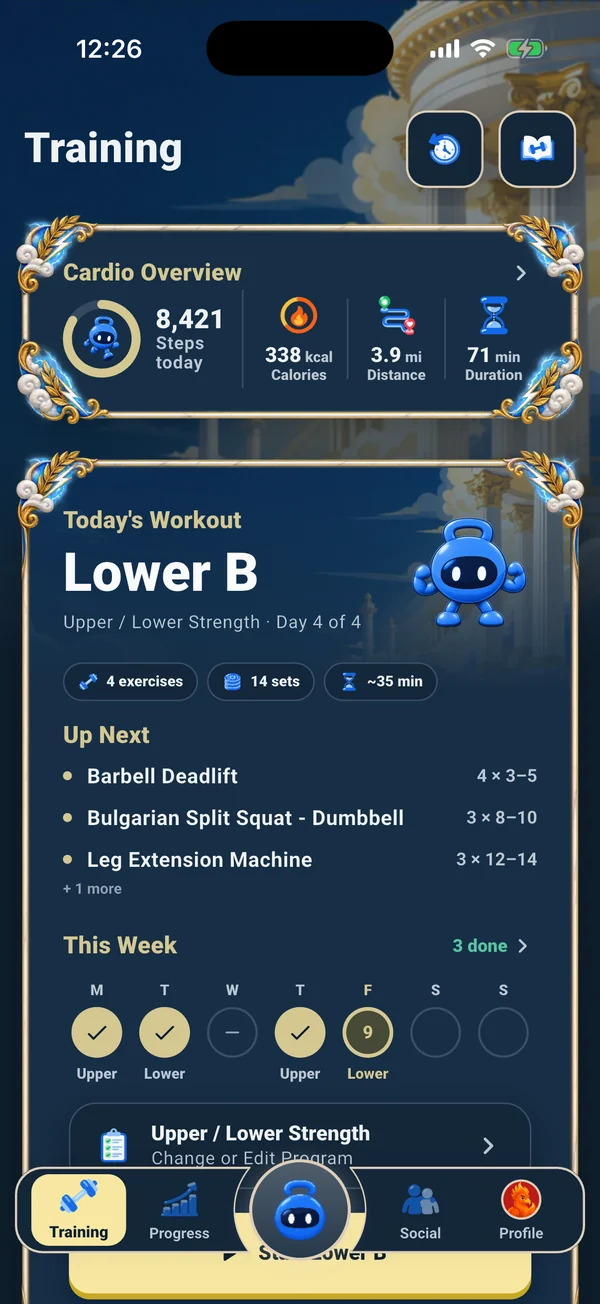
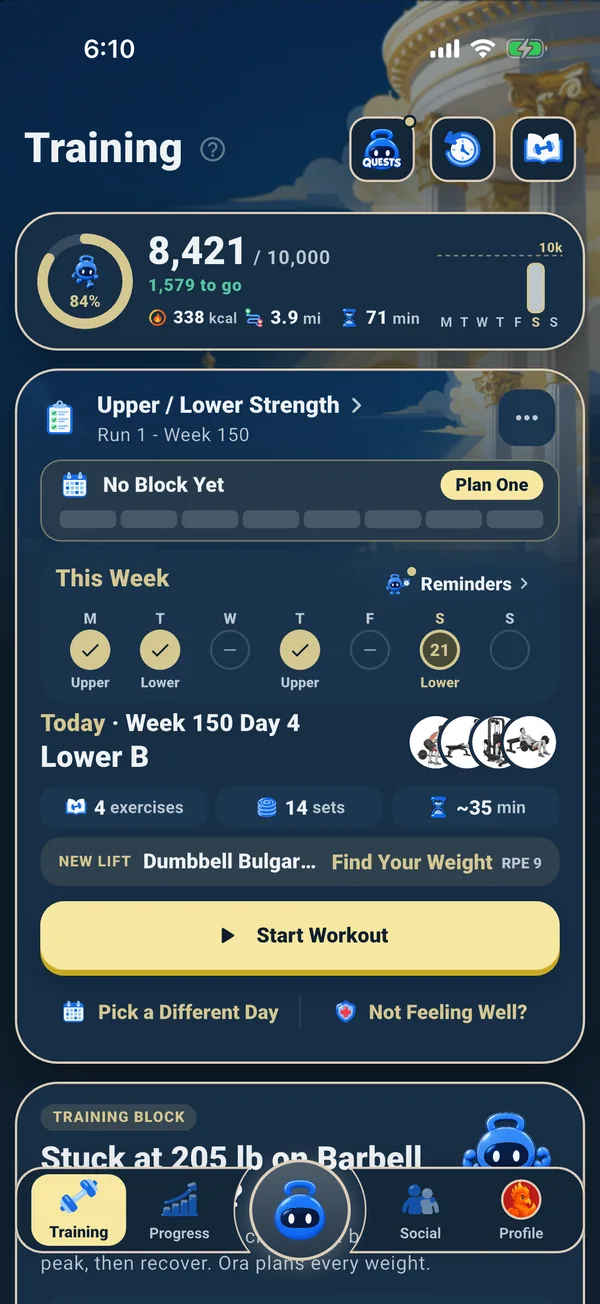
Homepage refresh: current app screens, Plans and Free Tools sections, more comparisons, grouped footer
- Six app screens replaced with today's app (marketing screenshot test,
  demo lifter); 'Beta screens' note removed
- New 'A plan for the whole block' section (block plan + Why This Set
  screens): Why This Set, Test Day, weekly check-ins, training styles
- New 'Free for every lifter' section: 5 calculators, Exercise Guides,
  Ora Wiki; top menu gains Plans and Free Tools
- Comparison table: 4 more rows; counts 1,800+ exercises, 47 badges;
  leagues, duels, Duo Streaks, Train Together and friend privacy in copy
- Footer links grouped into Ora / Free Tools / Learn / Company; footer
  compacted to fit one screen; consent block balanced (wording unchanged)
- Scroll: a push past the last section no longer glides back to its top

diff --git a/index.html b/index.html
@@ -477,11 +477,59 @@ main:focus{outline:none}
    --big is 1 up to laptop size and up to 1.8 on large monitors (set below). */
 .stage{scale:var(--big,1)}
 #social .board{scale:var(--big,1);transform-origin:50% 0}
+
+/* plan + free sections, grouped footer (2026-11-22) */
+.ticks{list-style:none;padding:0;margin:20px 0 0;display:grid;gap:10px}
+.ticks li{position:relative;padding:12px 14px 12px 44px;border-radius:14px;background:#ffffff0a;border:1px solid #ffffff14;color:var(--sub);font-size:15px;line-height:1.45}
+.ticks li b{color:#fff}
+.ticks li:before{content:'✓';position:absolute;left:14px;top:12px;width:20px;height:20px;border-radius:50%;background:#156CF6;color:#fff;font:700 12px/20px Roboto;text-align:center}
+.stage.plain .phone{animation:bob 6s ease-in-out infinite}
+#free{grid-template-columns:1fr}
+.copy.ctr{max-width:980px;margin:0 auto;text-align:center}
+.copy.ctr .lead{margin-left:auto;margin-right:auto;max-width:620px}
+.copy.ctr h2{margin-left:auto;margin-right:auto}
+.freegrid{display:grid;grid-template-columns:repeat(4,1fr);gap:12px;margin-top:28px;text-align:left}
+.freegrid a{display:flex;flex-direction:column;gap:4px;padding:16px;border-radius:18px;background:#ffffff0a;border:1px solid #ffffff1a;text-decoration:none;color:var(--ink);transition:border-color .2s,transform .2s}
+.freegrid a:hover{border-color:#3d8bff99;transform:translateY(-2px)}
+.freegrid .oi{width:34px;height:34px;margin-bottom:6px}
+.freegrid b{font:700 17px Fredoka;color:#fff}.freegrid span{font-size:13.5px;color:var(--sub);line-height:1.4}
+.freegrid a.all{justify-content:center;align-items:center;background:linear-gradient(180deg,#3D8BFF,#156CF6);border-color:#3D8BFF}
+.freegrid a.all b{font-size:16px}
+.links.cols{display:grid;grid-template-columns:repeat(4,auto);justify-content:center;gap:10px 56px;text-align:left;font-size:13.5px}
+.links.cols div{display:flex;flex-direction:column;gap:7px}
+.links.cols b{color:#fff;font-size:13px;letter-spacing:.3px;margin-bottom:2px}
+@media (max-width:900px){.freegrid{grid-template-columns:repeat(2,1fr)}.links.cols{grid-template-columns:repeat(2,auto);gap:22px 40px}}
+.slot.peek{position:absolute;aspect-ratio:1;z-index:2}
+.planpeek{width:max(150px,min(14vw,22vh));left:50%;bottom:4%;transform:translateX(-50%)}
+#free .copy.ctr{position:relative}
+.freeslot{width:max(110px,min(9vw,15vh));aspect-ratio:1;margin:0 auto 6px}
+@media (max-width:860px){.planpeek{left:auto;right:0;bottom:auto;top:-40px;width:var(--side)}.freeslot{width:min(34vw,120px)}}
+
+/* footer: stacked as before, a little more compact so Orbi clears the top bar (owner, 2026-11-22) */
+@media (min-width:861px){
+ footer{padding-top:96px;padding-bottom:24px}
+ footer .slot{width:max(130px,min(14vw,19vh));margin-bottom:-6px}
+ footer h2{margin-bottom:8px}
+ .faq{margin-top:18px}.faq details{padding:9px 4px}
+ .links.cols{margin-top:16px;gap:8px 56px}.links.cols div{gap:5px}
+}
+footer .wl{max-width:680px}footer .wl .wlrow{max-width:520px;margin-left:auto;margin-right:auto}
+footer .form-status{font-weight:600;color:#9DB2D3}
+footer .consent{max-width:640px;margin:2px auto 0;line-height:1.55;text-wrap:balance}
+@media (min-width:861px) and (max-height:840px){
+ footer{padding-top:84px;padding-bottom:10px}
+ footer .slot{width:max(100px,15vh);margin-bottom:-8px}
+ footer h2{font-size:clamp(34px,3.6vw,48px);margin-bottom:4px}
+ footer p.lead{font-size:16px;margin-bottom:12px}
+ footer .goals{margin-top:8px}footer .form-status{margin-top:4px}
+ .faq{margin-top:12px}.faq details{padding:7px 4px}
+ .links.cols{margin-top:12px;gap:6px 56px;font-size:13px}.links.cols div{gap:3px}
+}
 </style></head><body>
 <a class="skip" href="#main">Skip to content</a>
 <script>(function(){function f(){var b=innerWidth<=860?1:Math.max(1,Math.min(innerWidth/1500,innerHeight/940,1.8));document.documentElement.style.setProperty('--big',b.toFixed(3))}f();addEventListener('resize',f)})()</script>
 <div class="bg" aria-hidden="true"><i class="b1"></i><i class="b2"></i><i class="b3"></i></div><canvas id="dust" aria-hidden="true"></canvas><div class="grain" aria-hidden="true"></div>
-<nav><a href="/" class="home"><img src="/assets/home/ora_logo.webp" alt="Ora"></a><a class="l" href="#coach">Orbi</a><a class="l" href="#science">Science</a><a class="l" href="#rewards">Rewards</a><a class="l" href="#pro">Pricing</a><a class="cta" href="#join">Get early access</a></nav><a class="login" href="https://app.oracoach.app/app/">Login</a>
+<nav><a href="/" class="home"><img src="/assets/home/ora_logo.webp" alt="Ora"></a><a class="l" href="#coach">Orbi</a><a class="l" href="#science">Science</a><a class="l" href="#rewards">Rewards</a><a class="l" href="#plan">Plans</a><a class="l" href="#pro">Pricing</a><a class="l" href="#free">Free Tools</a><a class="cta" href="#join">Get early access</a></nav><a class="login" href="https://app.oracoach.app/app/">Login</a>
 <div id="orbi" role="img" aria-label="Orbi, Ora's coach. Drag to spin him, tap to make him hop."></div>
 
 <main id="main" tabindex="-1">
@@ -492,8 +540,8 @@ main:focus{outline:none}
   <div class="btns"><a class="cta" href="#join">Get early access</a><a class="cta ghost" href="#coach">Meet Orbi</a></div>
   <div class="micro">Free on iPhone during the beta · No credit card</div>
   <div class="stats">
-    <div class="stat"><img src="/assets/home/chibi_lifting.webp" alt=""><b data-count="1700" data-suffix="+">1,700+</b><span>exercises</span></div>
-    <div class="stat"><img src="/assets/home/badge_founding_member.webp" alt=""><b data-count="43">43</b><span>badges to unlock</span></div>
+    <div class="stat"><img src="/assets/home/chibi_lifting.webp" alt=""><b data-count="1800" data-suffix="+">1,800+</b><span>exercises</span></div>
+    <div class="stat"><img src="/assets/home/badge_founding_member.webp" alt=""><b data-count="47">47</b><span>badges to unlock</span></div>
     <div class="stat"><img src="/assets/home/chibi_thumbsup.webp" alt=""><b data-count="2">2</b><span>taps per set</span></div>
   </div>
   <span class="hint" id="hint">Psst, drag Orbi to spin him · tap to make him hop</span>
@@ -535,6 +583,10 @@ main:focus{outline:none}
 <tr><th scope="row">Adjusts during your session</th><td><span class="ic n" aria-label="No">✕</span></td><td><span class="part">In person only</span></td><td class="us"><span class="ic y" aria-label="Yes">✓</span></td></tr>
 <tr><th scope="row">Explains the why</th><td><span class="ic n" aria-label="No">✕</span></td><td><span class="ic y" aria-label="Yes">✓</span></td><td class="us"><span class="ic y" aria-label="Yes">✓</span></td></tr>
 <tr><th scope="row">Available 24/7</th><td><span class="ic y" aria-label="Yes">✓</span></td><td><span class="ic n" aria-label="No">✕</span></td><td class="us"><span class="ic y" aria-label="Yes">✓</span></td></tr>
+<tr><th scope="row">Plans your whole block</th><td><span class="part">Fixed templates</span></td><td><span class="ic y" aria-label="Yes">✓</span></td><td class="us"><span class="ic y" aria-label="Yes">✓</span></td></tr>
+<tr><th scope="row">Shows the research behind it</th><td><span class="ic n" aria-label="No">✕</span></td><td><span class="part">Sometimes</span></td><td class="us"><span class="ic y" aria-label="Yes">✓</span></td></tr>
+<tr><th scope="row">Tracks weekly sets per muscle</th><td><span class="part">Some apps</span></td><td><span class="ic y" aria-label="Yes">✓</span></td><td class="us"><span class="ic y" aria-label="Yes">✓</span></td></tr>
+<tr><th scope="row">Friends, duels and leagues</th><td><span class="part">Some apps</span></td><td><span class="ic n" aria-label="No">✕</span></td><td class="us"><span class="ic y" aria-label="Yes">✓</span></td></tr>
 <tr><th scope="row">Makes training fun</th><td><span class="ic n" aria-label="No">✕</span></td><td><span class="ic n" aria-label="No">✕</span></td><td class="us"><span class="ic y" aria-label="Yes">✓</span></td></tr>
 <tr class="price"><th scope="row">Price</th><td>$0–15<small>/mo</small></td><td>$100+<small>/mo, often</small></td><td class="us">$12.99<small>/mo</small></td></tr>
 </tbody></table></div>
@@ -547,17 +599,31 @@ main:focus{outline:none}
   <p class="lead">Next-set targets, rest timers and quick swaps keep up with your session instead of slowing it down. Your progress builds itself.</p>
   <a class="cta ghost" href="#rewards">See what you earn →</a>
   <div class="screens" id="screenNames" role="group" aria-label="Show a screen"><button class="on">Training</button><button>Workout</button><button>Orbi</button><button>Progress</button><button>Profile</button><button>Social</button></div>
-  <div class="fine">Beta screens.</div>
-  <div class="slot logslot" data-slot></div>
+    <div class="slot logslot" data-slot></div>
 </div><div class="stage" id="stage"><div class="tilt" id="tilt">
-  <div class="phone p1"><div class="scr"><img class="on" src="/assets/home/app_training.webp" alt="Ora's Training tab: today's workout, steps and this week's sessions" data-name="Training" data-tap="50,40"><img src="/assets/home/app_workout.webp" alt="A workout in progress: last week's numbers, the next-set target and rest timers" data-name="Workout" data-tap="86,20"><img src="/assets/home/app_coach.webp" alt="Orbi answering whether to go up on bench next week" data-name="Orbi" data-tap="11,94"></div><i class="tap"></i><i class="glare"></i></div>
-  <div class="phone p2"><div class="scr"><img class="on" src="/assets/home/app_progress.webp" alt="Ora's Progress tab: eight weeks of hard sets and a week of steps" data-name="Progress" data-tap="87,94"><img src="/assets/home/app_profile.webp" alt="Ora's Profile tab: an Olympus-rank card with level, badges, best lift and streak" data-name="Profile" data-tap="71,94"><img src="/assets/home/app_social.webp" alt="Ora's Social tab: friends at the gym and the weekly leaderboard" data-name="Social" data-tap="31,94"></div><i class="tap"></i><i class="glare"></i></div>
+  <div class="phone p1"><div class="scr"><img class="on" src="/assets/home/app_training.webp?v=2026-11-22" alt="Ora's Training tab: today's steps, the program, this week's sessions and the next workout" data-name="Training" data-tap="50,40"><img src="/assets/home/app_workout.webp?v=2026-11-22" alt="A workout in progress: Ora eases the next set back after a hard one and explains why" data-name="Workout" data-tap="86,20"><img src="/assets/home/app_coach.webp?v=2026-11-22" alt="Orbi answering whether to go up on bench next week" data-name="Orbi" data-tap="11,94"></div><i class="tap"></i><i class="glare"></i></div>
+  <div class="phone p2"><div class="scr"><img class="on" src="/assets/home/app_progress.webp?v=2026-11-22" alt="Ora's Progress tab: a year of workouts, volume, PRs and lifts then and now" data-name="Progress" data-tap="87,94"><img src="/assets/home/app_profile.webp?v=2026-11-22" alt="Ora's Profile tab: a Gold-rank card with level, badges, best lift and streak" data-name="Profile" data-tap="71,94"><img src="/assets/home/app_social.webp?v=2026-11-22" alt="Ora's Social tab: a Duo Streak, friends' activity and cheers" data-name="Social" data-tap="31,94"></div><i class="tap"></i><i class="glare"></i></div>
+</div></div></section>
+
+<section id="plan" data-hue="#12306e"><div class="copy">
+  <div class="kicker">Plans that think ahead</div>
+  <h2>A plan for the <span class="grad">whole block.</span></h2>
+  <p class="lead">Orbi builds your program around your goal and style, then plans the weeks ahead: build-up phases, deloads and returns.</p>
+  <ul class="ticks">
+    <li><b>Why This Set.</b> Tap Why on any set to see the reason behind the number, in plain words.</li>
+    <li><b>Test Day.</b> Measure a new max when you're ready, never after logged pain or a sick day.</li>
+    <li><b>Weekly check-ins.</b> Orbi looks at what you did and what's next, and asks before it changes anything.</li>
+    <li><b>Your style.</b> Powerlifting, bodybuilding, powerbuilding, general strength or general fitness.</li>
+  </ul>
+</div><div class="stage plain"><div class="slot peek planpeek" data-slot></div><div class="tilt">
+  <div class="phone p1"><div class="scr"><img class="on" src="/assets/home/app_block.webp?v=2026-11-22" alt="A training block plan: phases, a deload week and a Test Day"></div><i class="glare"></i></div>
+  <div class="phone p2"><div class="scr"><img class="on" src="/assets/home/app_why.webp?v=2026-11-22" alt="Why This Set: the reason behind the next set's target"></div><i class="glare"></i></div>
 </div></div></section>
 
 <section id="rewards" data-hue="#2a1b6b"><div class="slot mid" data-slot></div><div class="copy">
   <div class="kicker">Only on Ora</div>
   <h2>No other lifting app <span class="grad">plays like this.</span></h2>
-  <p class="lead">Every workout earns XP. Climb seven ranks from Newbie to Olympus, unlock 43 badges and 34 titles, and win the gear that comes with them. Tap a badge.</p>
+  <p class="lead">Every workout earns XP. Climb seven ranks from Newbie to Olympus, unlock 47 badges and 34 titles, and win the gear that comes with them. Then climb a league from Bronze to Legend, with new rewards every season. Tap a badge.</p>
   <div class="shelf" id="shelf"></div>
   <div class="ladder" id="ladder">
     <div class="lt">On the way to <b>Rank: Olympus</b> (level 50), the gear unlocks as you level</div>
@@ -577,7 +643,7 @@ main:focus{outline:none}
 <section id="social" data-hue="#0b4a5e"><div class="copy">
   <div class="kicker">Train together</div>
   <h2>Your crew, <span class="grad">at the gym now.</span></h2>
-  <p class="lead">See who's training, send a cheer, and climb your friends' weekly XP ranks. Accountability that keeps you showing up, without a feed to scroll.</p>
+  <p class="lead">See who's training and send a cheer. Duel a friend for a week, keep a Duo Streak going, or plan a Train Together day. Friends see that you trained, never your weights, sets or location.</p>
   <div class="gym" id="gym"><span class="demo">Example</span>
     <div class="friend reveal"><div class="avr"><img class="a" src="/assets/home/av/fox.webp" alt=""><img class="r" src="/assets/home/av/ring_rank_veteran.webp" alt="" style="--x:1.4167"></div>
       <div class="meta"><b>Maya</b><div>Push day · <span class="clock" data-start="2280">38:00</span></div></div><span class="live">Training now</span><button class="cheer" data-icon="streak"><img class="oi" src="/assets/home/icons/streak.webp" alt="">Cheer</button></div>
@@ -604,7 +670,7 @@ main:focus{outline:none}
   <h2>Start free. <span class="grad">Go Pro when you're ready.</span></h2>
   <div class="plans">
     <div class="plan reveal"><div class="pn">Ora</div><div class="pp">Free</div>
-      <ul><li>Two-tap logging and 1,700+ exercises</li><li>Progress, PRs and strength trends</li><li>XP, ranks, badges, titles and gear</li><li>Friends, check-ins and weekly ranks</li></ul></div>
+      <ul><li>Two-tap logging and 1,800+ exercises</li><li>Progress, PRs and strength trends</li><li>XP, ranks, badges, titles and gear</li><li>Friends, duels, leagues and weekly ranks</li></ul></div>
     <div class="plan pro reveal"><div class="tag">Founding offer</div><div class="pn">Ora Pro <span>with Orbi</span></div>
       <div class="pp">$79.99<small>/yr or $12.99/mo</small></div>
       <ul><li><b>Everything in Free</b></li><li>Orbi, your AI training coach</li><li>Smart programs that adapt to how training goes</li><li>Weekly check-ins and in-session adjustments</li><li>Founding Member badge</li></ul>
@@ -613,7 +679,26 @@ main:focus{outline:none}
   </div>
   <div class="fine">After the Founding offer: Ora Pro is $19.99/mo (no trial) or $119.99/yr with a 14-day free trial. Purchases open at launch, and beta testers get first access to Founding pricing. Subscriptions renew automatically until you cancel. A free trial becomes a paid subscription unless you cancel at least 24 hours before it ends.</div>
 </div><div class="slot mid pro-slot" data-slot></div></section>
+
+<section id="free" data-hue="#0e2f66"><div class="copy ctr">
+  <div class="slot freeslot" data-slot></div>
+  <div class="kicker">Free for every lifter</div>
+  <h2>Tools and guides, <span class="grad">no account needed.</span></h2>
+  <p class="lead">The math lifters reach for between sets, and clear guides to the lifts people ask about most.</p>
+  <div class="freegrid">
+    <a href="/tools/1rm-calculator/"><img class="oi" src="/assets/home/icons/trophy.webp" alt=""><b>1RM Calculator</b><span>Your max from any set, with RPE</span></a>
+    <a href="/tools/rpe-chart/"><img class="oi" src="/assets/home/icons/intensity.webp" alt=""><b>RPE Chart</b><span>Percent of max for every rep and RPE</span></a>
+    <a href="/tools/plate-calculator/"><img class="oi" src="/assets/home/icons/training.webp" alt=""><b>Plate Calculator</b><span>What goes on each side of the bar</span></a>
+    <a href="/tools/volume-calculator/"><img class="oi" src="/assets/home/icons/muscle.webp" alt=""><b>Volume Calculator</b><span>Weekly hard sets per muscle</span></a>
+    <a href="/tools/dots-calculator/"><img class="oi" src="/assets/home/icons/leaderboard.webp" alt=""><b>DOTS Calculator</b><span>DOTS, Wilks and IPF GL points</span></a>
+    <a href="/exercises/"><img class="oi" src="/assets/home/icons/notes.webp" alt=""><b>Exercise Guides</b><span>How to, muscles worked, sets and reps</span></a>
+    <a href="/wiki/"><img class="oi" src="/assets/home/icons/progress.webp" alt=""><b>Ora Wiki</b><span>Ranks, leagues, XP and how Ora works</span></a>
+    <a href="/tools/" class="all"><b>All Free Tools →</b></a>
+  </div>
+</div></section>
 </main>
+
+
 
 <footer id="join" data-hue="#0b2a6b"><div class="slot" data-slot></div><h2>Your next PR <span class="grad">starts here.</span></h2>
 <p class="lead">Ora is in private beta on iPhone. Get early access, and Orbi will save you a Founding spot.</p>
@@ -628,8 +713,13 @@ main:focus{outline:none}
   <details><summary>Is Orbi a real coach?</summary><p>Orbi is an AI coach. It reads your logged training and goals, and every number it suggests comes from Ora's tested training rules, which are built on published research. It explains its reasoning and never changes your plan without your OK.</p></details>
   <details><summary>Do I need Ora Pro?</summary><p>No. Logging, progress, rewards and friends are free. Pro adds Orbi's coaching, smart programs and weekly check-ins.</p></details>
   <details><summary>What about my data?</summary><p>Your training lives on your phone first. You can export it or delete it at any time, and Orbi only sees what it needs to coach you.</p></details>
+</div><div class="links cols" role="navigation" aria-label="Footer">
+  <div><b>Ora</b><a href="#coach">Orbi</a><a href="#plan">Plans</a><a href="#pro">Pricing</a><a href="https://app.oracoach.app/app/">For Coaches</a></div>
+  <div><b>Free Tools</b><a href="/tools/1rm-calculator/">1RM Calculator</a><a href="/tools/rpe-chart/">RPE Chart</a><a href="/tools/plate-calculator/">Plate Calculator</a><a href="/tools/">All Tools</a></div>
+  <div><b>Learn</b><a href="/exercises/">Exercise Guides</a><a href="/wiki/">Ora Wiki</a><a href="/support/">Support</a><a href="mailto:support@oracoach.app">support@oracoach.app</a></div>
+  <div><b>Company</b><a href="/team/">Team</a><a href="/privacy/">Privacy</a><a href="/terms/">Terms</a><a href="/health-data/">Consumer Health Data Privacy Policy</a><a href="/accessibility/">Accessibility</a></div>
 </div>
-<div class="links" role="navigation" aria-label="Footer"><a href="https://app.oracoach.app/app/">For coaches</a><a href="/wiki/">Wiki</a><a href="/privacy/">Privacy</a><a href="/terms/">Terms</a><a href="/health-data/">Consumer Health Data Privacy Policy</a><a href="/accessibility/">Accessibility</a><a href="/team/">Team</a><a href="/tools/">Lifting Tools</a><a href="/exercises/">Exercise Guides</a><a href="/support/">Support</a><a href="mailto:support@oracoach.app">support@oracoach.app</a></div>
+
 <div class="small">© 2026 Orbi Labs LLC · oracoach.app</div></footer>
 <script src="/assets/waitlist.js?v=2026-11-21" defer></script>
 
@@ -736,9 +826,14 @@ tint(at);
 function topOf(i) { return sections[i].getBoundingClientRect().top + scrollY; }
 let glide = 0; // bumps to cancel a running glide when a new one starts
 function go(n, dir = Math.sign(n - at)) {
+  const wanted = n;
   n = Math.max(0, Math.min(sections.length - 1, n));
+  // Past the first or last section: stay put. Before, a push at the very
+  // bottom glided back up to the footer's top, so its end never stayed in
+  // view (owner, 2026-11-22).
+  if (n !== wanted && n === at) return;
   const H = innerHeight, max = document.documentElement.scrollHeight - H;
-  const tall = sections[n].offsetHeight > H * 1.05;
+  const tall = sections[n].offsetHeight > (H + 4);
   // Coming up into a tall section, land on its bottom; otherwise its top.
   let y1 = dir < 0 && tall ? topOf(n) + sections[n].offsetHeight - H : topOf(n);
   y1 = Math.max(0, Math.min(max, Math.round(y1)));
@@ -760,7 +855,7 @@ function go(n, dir = Math.sign(n - at)) {
 /** In a tall section, whether there is more of it to read in [dir]. */
 function moreInside(dir) {
   const r = sections[at].getBoundingClientRect(), H = innerHeight;
-  if (r.height <= H * 1.05) return false;
+  if (r.height <= (H + 4)) return false;
   return dir > 0 ? r.bottom > H + 2 : r.top < -2;
 }
 // Wheel and trackpad. A gesture moves one section.
@@ -826,7 +921,7 @@ addEventListener('scrollend', () => {
   // back to the section it started from.
   jumpTo(sectionAtMiddle(null));
   const H = innerHeight;
-  if (sections[at].offsetHeight > H * 1.05) return;
+  if (sections[at].offsetHeight > (H + 4)) return;
   if (Math.abs(topOf(at) - scrollY) > 2) go(at, 0);
 });
 
